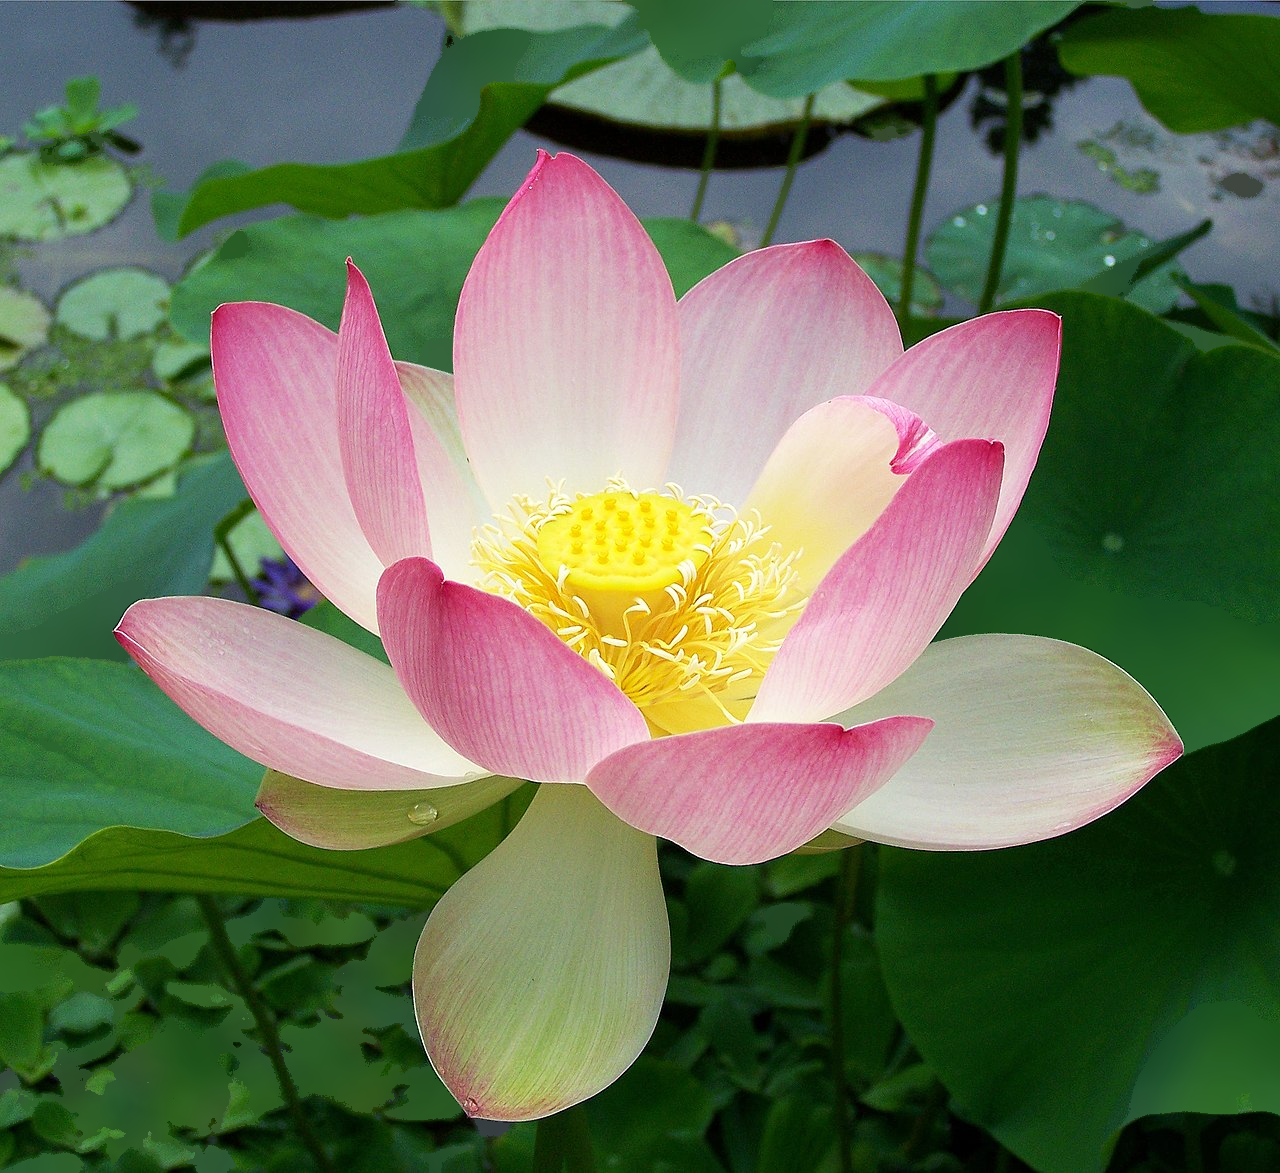
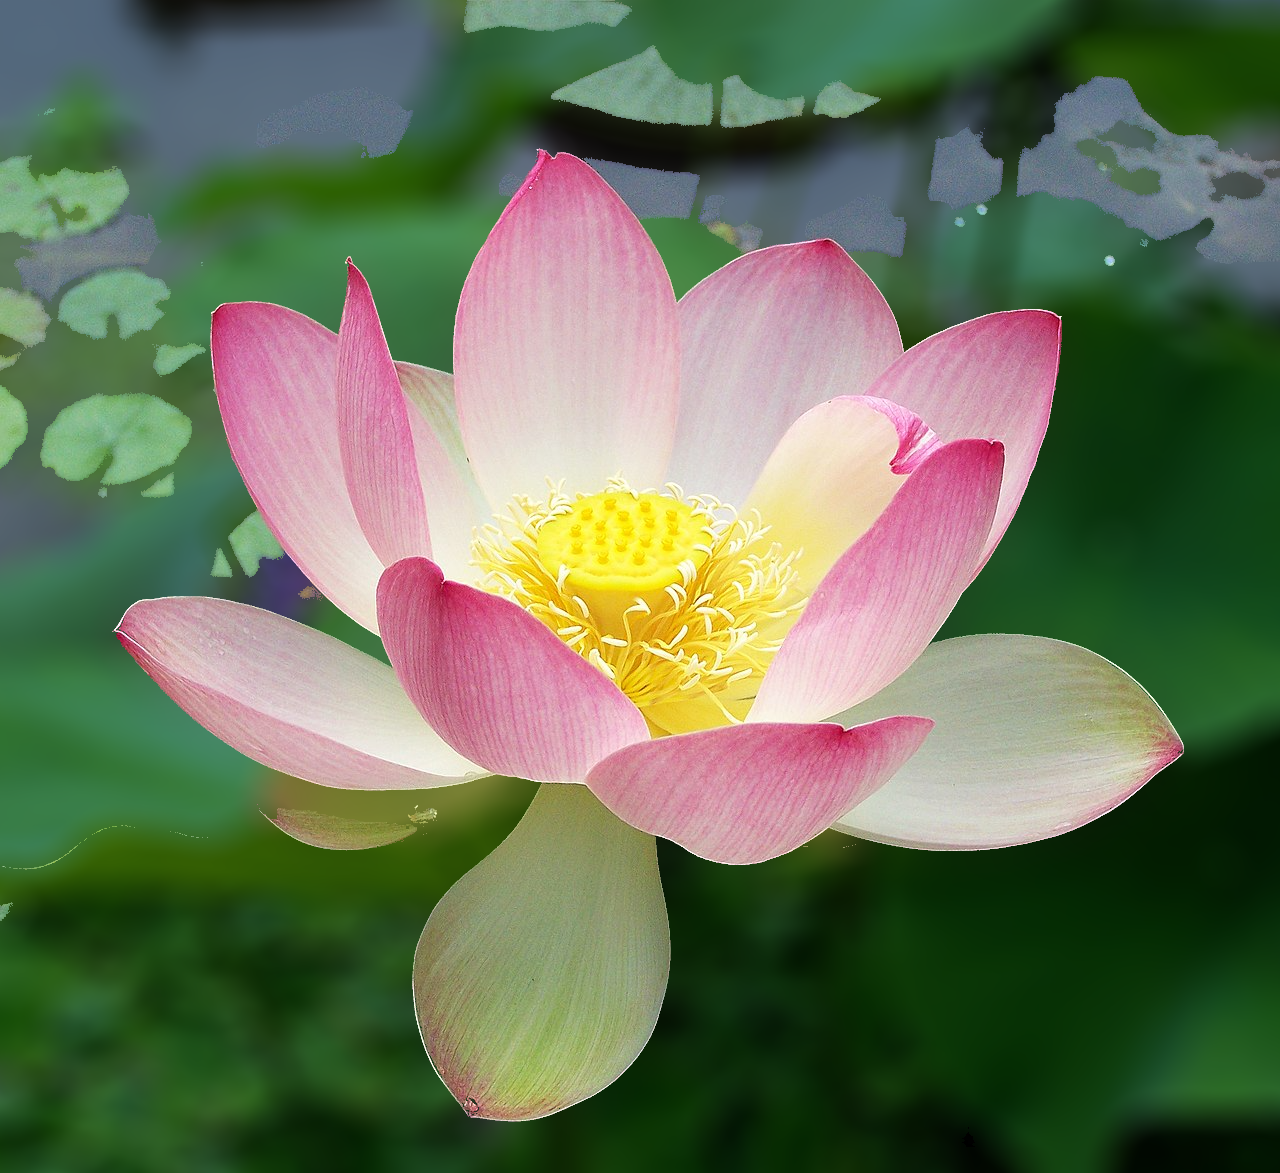
Some corrections

diff --git a/q5.py b/q5.py
@@ -86,13 +86,14 @@ def apply_bokeh_blur(img, fg_mask, diameter):
         
     return np.clip(final_result, 0, 255).astype(np.uint8)
 
-input_dir="./data/bokeh", output_dir="./output_q5"
+input_dir="./data/bokeh"
+output_dir="./output_q5"
 os.makedirs(output_dir, exist_ok=True)
 
 images_config = [
-    {"filename": "deep.png", "is_manual": True},
-    {"filename": "lotus.png", "is_manual": False},
-    {"filename": "marigold.png", "is_manual": False}
+    {"filename": "deep.png"},
+    {"filename": "lotus.png"},
+    {"filename": "marigold.png"}
 ]
 for cfg in images_config:
     in_path = os.path.join(input_dir, cfg["filename"])
@@ -103,30 +104,31 @@ for cfg in images_config:
     print(f"Processing {cfg['filename']}...")
     
     img_rgb = iio.imread(in_path)        
-    if cfg["is_manual"]:
-        fg_mask = get_manual_mask(img_rgb)
-    else:
-        segmented_img = mean_shift_segmentation(
-            img_rgb,
-            spatial_radius=15,
-            color_radius=30
-        )
-        border_width = 10
+    segmented_img = mean_shift_segmentation(
+        img_rgb,
+        spatial_radius=15,
+        color_radius=30
+    )
+    border_width = 10
 
-        border_pixels = np.concatenate([
-            segmented_img[:border_width, :, :].reshape(-1, 3),
-            segmented_img[-border_width:, :, :].reshape(-1, 3),
-            segmented_img[:, :border_width, :].reshape(-1, 3),
-            segmented_img[:, -border_width:, :].reshape(-1, 3)
-        ])
-        background_color = np.mean(border_pixels, axis=0)
+    border_pixels = np.concatenate([
+        segmented_img[:border_width, :, :].reshape(-1, 3),
+        segmented_img[-border_width:, :, :].reshape(-1, 3),
+        segmented_img[:, :border_width, :].reshape(-1, 3),
+        segmented_img[:, -border_width:, :].reshape(-1, 3)
+    ])
+    background_color = np.mean(border_pixels, axis=0)
 
-        color_distance = np.linalg.norm(
-            segmented_img.astype(np.float32) -
-            background_color.astype(np.float32),
-            axis=2
-        )
-        fg_mask = (color_distance > 30).astype(np.uint8)
+    color_distance = np.linalg.norm(
+        segmented_img.astype(np.float32) -
+        background_color.astype(np.float32),
+        axis=2
+    )
+    fg_mask = (color_distance > 100).astype(np.uint8)
+    print(
+        f"{cfg['filename']}: "
+        f"foreground = {np.mean(fg_mask)*100:.2f}%"
+    )
         
     bokeh_50 = apply_bokeh_blur(img_rgb, fg_mask, diameter=50)
     bokeh_100 = apply_bokeh_blur(img_rgb, fg_mask, diameter=100)

diff --git a/q4.py b/q4.py
@@ -60,15 +60,24 @@ def detect_corners(response, nms_size=5, threshold=0.01):
     binary_map = (nms_map > 0).astype(np.uint8)
     return nms_map, binary_map
 
-def harris_stephens_edge_detection(C_harris, nms_size=3, edge_threshold=0.0001):
+def harris_stephens_edge_detection(C_harris, nms_size=3, edge_threshold=0.01):
 
     edgeness = np.maximum(-C_harris, 0.0)
     nms_edge_strength = non_maximum_suppression_2d(
         edgeness,
         neighborhood_size=nms_size
     )
-    binary_edge = (nms_edge_strength > edge_threshold).astype(np.uint8)
-    return nms_edge_strength, binary_edge
+    max_edge = np.max(nms_edge_strength)
+    if max_edge > 0:
+        thresh_val = edge_threshold * max_edge
+    else:
+        thresh_val = 0
+    binary_edge = (
+        (nms_edge_strength > 0) &
+        (nms_edge_strength >= thresh_val)
+    ).astype(np.uint8)
+    nms_C = np.where(binary_edge > 0, nms_edge_strength, 0.0)
+    return nms_C, binary_edge
 
 def normalize_and_convert_u8(img_float):
 
@@ -140,17 +149,17 @@ configs = {
     'data/corner/nandadevi.png': {
         'sigma_d': 1.0, 'sigma_i': 1.5, 'k': 0.04,
         'nms_size': 5, 'harris_thresh': 0.01, 'st_thresh': 0.02,
-        'edge_nms_size': 3, 'edge_thresh': 0.0001
+        'edge_nms_size': 3, 'edge_thresh': 0.05
     },
     'data/corner/paithaniCorner.png': {
         'sigma_d': 1.0, 'sigma_i': 1.5, 'k': 0.04,
         'nms_size': 5, 'harris_thresh': 0.015, 'st_thresh': 0.025,
-        'edge_nms_size': 3, 'edge_thresh': 0.0001
+        'edge_nms_size': 3, 'edge_thresh': 0.05
     },
     'data/corner/warli.png': {
         'sigma_d': 1.0, 'sigma_i': 1.5, 'k': 0.04,
         'nms_size': 5, 'harris_thresh': 0.01, 'st_thresh': 0.02,
-        'edge_nms_size': 3, 'edge_thresh': 0.0001
+        'edge_nms_size': 3, 'edge_thresh': 0.05
     }
 }
 
